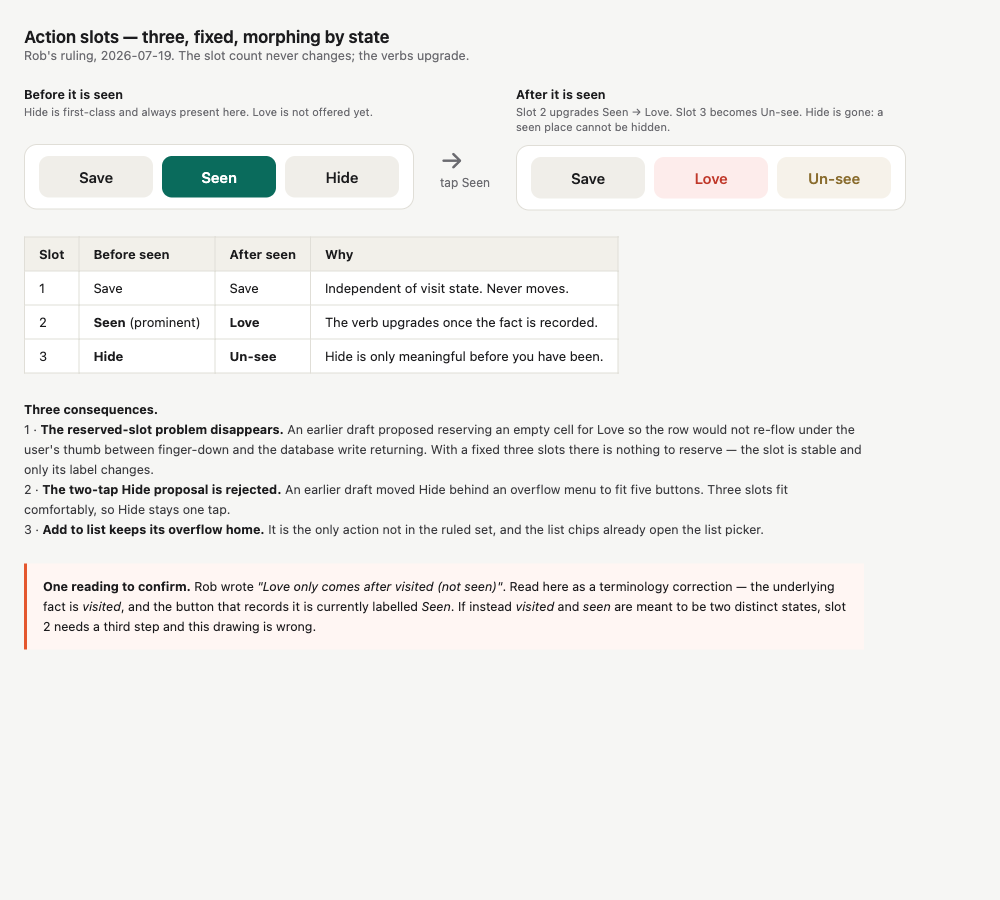
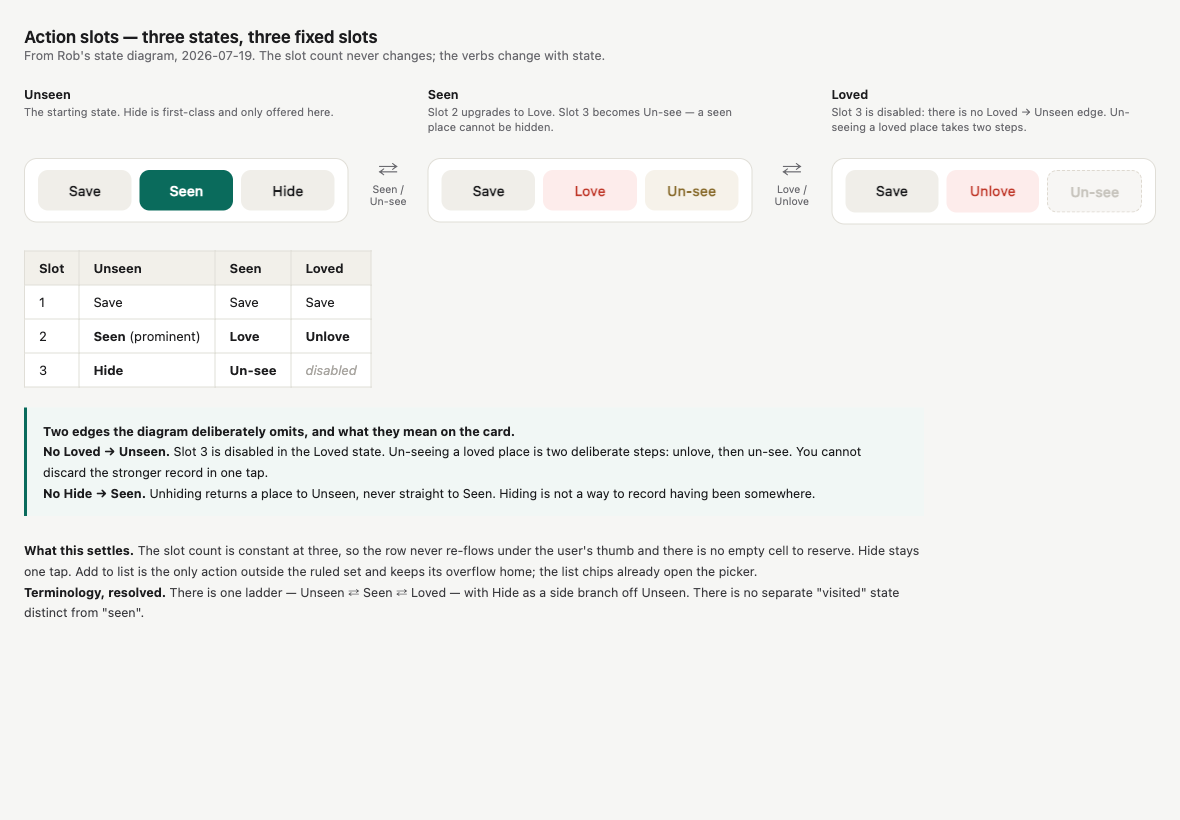
docs: WP-CARD-LAYOUT — Rob's state machine as the ruled model
Quotes the stateDiagram verbatim and renders all three states.

The load-bearing part is what the diagram omits: no Loved->Unseen, so
slot 3 is disabled in Loved and un-seeing a loved place takes two steps;
and no Hide->Seen, so unhiding returns to Unseen.

Resolves the visited-vs-seen terminology question: one ladder, Hide as a
side branch off Unseen.

diff --git a/docs/design/card/wf-actions.html b/docs/design/card/wf-actions.html
@@ -6,68 +6,77 @@
   body{ background:#f6f6f4; font-family:-apple-system,BlinkMacSystemFont,"SF Pro Text","Helvetica Neue",Arial,sans-serif; color:var(--ink); padding:26px 24px 30px; }
   h1{ font-size:17px; font-weight:650; margin-bottom:2px;}
   .sub{ font-size:12.5px; color:var(--dim); margin-bottom:24px;}
-  .row{ display:flex; gap:26px; align-items:flex-start; flex-wrap:wrap;}
-  .col{ width:390px;}
+  .row{ display:flex; gap:14px; align-items:flex-start;}
+  .col{ width:330px;}
   .cap{ font-size:12.5px; font-weight:650; margin-bottom:3px;}
-  .capsub{ font-size:11px; color:var(--dim); margin-bottom:10px; line-height:1.4; min-height:30px;}
-  .bar{ border:1px solid #e0ded7; border-radius:13px; background:#fff; padding:11px 14px; display:flex; gap:9px;}
-  .btn{ flex:1; text-align:center; font-size:15px; font-weight:560; padding:12px 0; border-radius:10px; background:#f0eee9;}
+  .capsub{ font-size:11px; color:var(--dim); margin-bottom:10px; line-height:1.4; min-height:44px;}
+  .bar{ border:1px solid #e0ded7; border-radius:13px; background:#fff; padding:11px 13px; display:flex; gap:8px;}
+  .btn{ flex:1; text-align:center; font-size:14px; font-weight:560; padding:12px 0; border-radius:10px; background:#f0eee9;}
   .btn.prom{ background:var(--accent); color:#fff;}
   .btn.love{ background:#fdeceb; color:#c0392b;}
   .btn.warn{ background:#f6f2ea; color:#8a6d2f;}
-  .arrowrow{ display:flex; align-items:center; gap:18px; margin:22px 0 10px;}
-  .arrow{ font-size:26px; color:var(--dim);}
-  .lab{ font-size:12px; color:var(--dim);}
-  .note{ margin-top:26px; font-size:12.5px; line-height:1.6; color:#3a3a3e; max-width:840px;}
+  .btn.off{ background:#f7f6f4; color:#c8c5be; border:1px dashed #ded9d0;}
+  .arrow{ align-self:center; padding-top:52px; text-align:center; width:52px;}
+  .ar{ font-size:22px; color:var(--dim); line-height:1.1;}
+  .lab{ font-size:10.5px; color:var(--dim); margin-top:2px;}
+  table{ margin-top:26px; border-collapse:collapse; font-size:13px;}
+  th,td{ border:1px solid #e0ded7; padding:9px 14px; text-align:left; background:#fff;}
+  th{ background:#f2f0ea; font-weight:650;}
+  td.dis{ color:#a8a5a0; font-style:italic;}
+  .note{ margin-top:24px; font-size:12.5px; line-height:1.65; color:#3a3a3e; max-width:900px;}
   .note b{ color:var(--ink);}
-  .slotmap{ margin-top:26px; border-collapse:collapse; font-size:13px;}
-  .slotmap th,.slotmap td{ border:1px solid #e0ded7; padding:9px 14px; text-align:left; background:#fff;}
-  .slotmap th{ background:#f2f0ea; font-weight:650;}
-  .q{ margin-top:24px; padding:13px 16px; border-left:3px solid var(--pin); background:#fff6f3; font-size:12.5px; line-height:1.6; max-width:840px;}
+  .edge{ margin-top:20px; padding:13px 16px; border-left:3px solid var(--accent); background:#f1f7f5; font-size:12.5px; line-height:1.65; max-width:900px;}
 </style></head><body>
 
-<h1>Action slots — three, fixed, morphing by state</h1>
-<div class="sub">Rob's ruling, 2026-07-19. The slot count never changes; the verbs upgrade.</div>
+<h1>Action slots — three states, three fixed slots</h1>
+<div class="sub">From Rob's state diagram, 2026-07-19. The slot count never changes; the verbs change with state.</div>
 
 <div class="row">
   <div class="col">
-    <div class="cap">Before it is seen</div>
-    <div class="capsub">Hide is first-class and always present here. Love is not offered yet.</div>
+    <div class="cap">Unseen</div>
+    <div class="capsub">The starting state. Hide is first-class and only offered here.</div>
     <div class="bar">
       <div class="btn">Save</div><div class="btn prom">Seen</div><div class="btn">Hide</div>
     </div>
   </div>
 
-  <div style="align-self:center; padding-top:38px;">
-    <div class="arrow">→</div>
-    <div class="lab">tap Seen</div>
-  </div>
+  <div class="arrow"><div class="ar">⇄</div><div class="lab">Seen /<br>Un-see</div></div>
 
   <div class="col">
-    <div class="cap">After it is seen</div>
-    <div class="capsub">Slot 2 upgrades Seen → Love. Slot 3 becomes Un-see. Hide is gone: a seen place cannot be hidden.</div>
+    <div class="cap">Seen</div>
+    <div class="capsub">Slot 2 upgrades to Love. Slot 3 becomes Un-see — a seen place cannot be hidden.</div>
     <div class="bar">
       <div class="btn">Save</div><div class="btn love">Love</div><div class="btn warn">Un-see</div>
     </div>
   </div>
+
+  <div class="arrow"><div class="ar">⇄</div><div class="lab">Love /<br>Unlove</div></div>
+
+  <div class="col">
+    <div class="cap">Loved</div>
+    <div class="capsub">Slot 3 is disabled: there is no Loved → Unseen edge. Un-seeing a loved place takes two steps.</div>
+    <div class="bar">
+      <div class="btn">Save</div><div class="btn love">Unlove</div><div class="btn off">Un-see</div>
+    </div>
+  </div>
 </div>
 
-<table class="slotmap">
-  <tr><th>Slot</th><th>Before seen</th><th>After seen</th><th>Why</th></tr>
-  <tr><td>1</td><td>Save</td><td>Save</td><td>Independent of visit state. Never moves.</td></tr>
-  <tr><td>2</td><td><b>Seen</b> (prominent)</td><td><b>Love</b></td><td>The verb upgrades once the fact is recorded.</td></tr>
-  <tr><td>3</td><td><b>Hide</b></td><td><b>Un-see</b></td><td>Hide is only meaningful before you have been.</td></tr>
+<table>
+  <tr><th>Slot</th><th>Unseen</th><th>Seen</th><th>Loved</th></tr>
+  <tr><td>1</td><td>Save</td><td>Save</td><td>Save</td></tr>
+  <tr><td>2</td><td><b>Seen</b> (prominent)</td><td><b>Love</b></td><td><b>Unlove</b></td></tr>
+  <tr><td>3</td><td><b>Hide</b></td><td><b>Un-see</b></td><td class="dis">disabled</td></tr>
 </table>
 
-<div class="note">
-<b>Three consequences.</b><br>
-1 · <b>The reserved-slot problem disappears.</b> An earlier draft proposed reserving an empty cell for Love so the row would not re-flow under the user's thumb between finger-down and the database write returning. With a fixed three slots there is nothing to reserve — the slot is stable and only its label changes.<br>
-2 · <b>The two-tap Hide proposal is rejected.</b> An earlier draft moved Hide behind an overflow menu to fit five buttons. Three slots fit comfortably, so Hide stays one tap.<br>
-3 · <b>Add to list keeps its overflow home.</b> It is the only action not in the ruled set, and the list chips already open the list picker.
+<div class="edge">
+<b>Two edges the diagram deliberately omits, and what they mean on the card.</b><br>
+<b>No Loved → Unseen.</b> Slot 3 is disabled in the Loved state. Un-seeing a loved place is two deliberate steps: unlove, then un-see. You cannot discard the stronger record in one tap.<br>
+<b>No Hide → Seen.</b> Unhiding returns a place to Unseen, never straight to Seen. Hiding is not a way to record having been somewhere.
 </div>
 
-<div class="q">
-<b>One reading to confirm.</b> Rob wrote <i>"Love only comes after visited (not seen)"</i>. Read here as a terminology correction — the underlying fact is <i>visited</i>, and the button that records it is currently labelled <i>Seen</i>. If instead <i>visited</i> and <i>seen</i> are meant to be two distinct states, slot 2 needs a third step and this drawing is wrong.
+<div class="note">
+<b>What this settles.</b> The slot count is constant at three, so the row never re-flows under the user's thumb and there is no empty cell to reserve. Hide stays one tap. Add to list is the only action outside the ruled set and keeps its overflow home; the list chips already open the picker.<br>
+<b>Terminology, resolved.</b> There is one ladder — Unseen ⇄ Seen ⇄ Loved — with Hide as a side branch off Unseen. There is no separate "visited" state distinct from "seen".
 </div>
 
 </body></html>

diff --git a/docs/superpowers/plans/2026-07-19-wp-card-layout.md b/docs/superpowers/plans/2026-07-19-wp-card-layout.md
@@ -53,31 +53,51 @@ Sources are committed beside the images (`docs/design/card/wf-default.html`, `wf
 
 ## 4. The actions — ruled
 
-Rob, 2026-07-19, verbatim:
+Rob, 2026-07-19:
 
 > "where's hide? Hide is a first class action. Love only comes after visited (not seen). So - Save, Seen (change to loved on seen) Hide."
 
 > "Also on seen, change hide to unsee or something - you can't hide a seen item."
 
+And the state machine, authored by Rob, verbatim:
+
+```mermaid
+stateDiagram
+[*] --> Unseen
+Unseen --> Seen
+Unseen --> Hide
+Seen --> Unseen
+Seen --> Loved
+Loved --> Seen
+Hide --> Unseen
+```
+
 ![Action slots](../../design/card/card-actions.png)
 
-**Three slots. The count never changes; the verbs upgrade.**
+**Three fixed slots across three states. The count never changes; the verbs do.**
 
-| Slot | Before seen | After seen | Why |
+| Slot | Unseen | Seen | Loved |
 |---|---|---|---|
-| 1 | Save | Save | Independent of visit state. Never moves. |
-| 2 | **Seen** (prominent) | **Love** | The verb upgrades once the fact is recorded. |
-| 3 | **Hide** | **Un-see** | Hide is only meaningful before you have been. |
+| 1 | Save | Save | Save |
+| 2 | **Seen** (prominent) | **Love** | **Unlove** |
+| 3 | **Hide** | **Un-see** | *disabled* |
 
-This settles three open items from the earlier drafts:
+### The two edges the diagram omits
 
-- **Hide is first-class.** The proposal to move it behind an overflow — and with it the "Hide becomes two taps" ratification item — is rejected. Three slots fit comfortably.
-- **The reserved-slot problem dissolves.** An earlier draft proposed reserving an empty cell for Love so the row would not re-flow under the thumb between finger-down and the write returning. With a fixed three slots there is nothing to reserve: the slot is stable and only its label changes.
-- **Add to list keeps its overflow home.** It is the only action outside the ruled set, and the list chips already open the picker.
+These are the load-bearing part, and they are omissions rather than statements — easy to miss and easy to violate by accident.
 
-**One reading to confirm rather than assume.** "Love only comes after visited (not seen)" is read here as a terminology correction — the underlying fact is *visited*, and the button that records it is currently labelled *Seen*. If instead *visited* and *seen* are meant as two distinct states, slot 2 needs a third step and the drawing above is wrong.
+**There is no `Loved --> Unseen`.** So slot 3 is disabled in the Loved state. Un-seeing a loved place takes two deliberate steps: unlove, then un-see. A single tap cannot discard the stronger record.
 
-**Data-layer note.** "You can't hide a seen item" is a rule about what the card offers, not a migration. Existing hidden-and-visited rows are legacy composition in the fade matrix and are unchanged by this.
+**There is no `Hide --> Seen`.** Unhiding returns a place to Unseen, never straight to Seen. Hiding is not a route to recording that you have been somewhere.
+
+### What this settles
+
+- **Terminology.** One ladder — Unseen ⇄ Seen ⇄ Loved — with Hide as a side branch off Unseen. There is no separate *visited* state distinct from *seen*. The question raised in the previous revision is answered.
+- **Hide is first-class.** The proposal to move it behind an overflow, and the "Hide becomes two taps" ratification item, are withdrawn.
+- **The reserved-slot problem dissolves.** An earlier draft reserved an empty cell so the row would not re-flow under the thumb between finger-down and the write returning. With a constant three slots there is nothing to reserve.
+- **Add to list** is the only action outside the ruled set and keeps its overflow home; the list chips already open the picker.
+
+**Data-layer note.** "You can't hide a seen item" governs what the card offers, not a migration. Existing hidden-and-visited rows are legacy composition in the fade matrix and are unchanged.
 
 ## 5. What the pictures show
 
@@ -128,7 +148,8 @@ Carried from the research pass. These do not depend on which option wins.
 Unchanged from the analysis pass, and it only bites if option A wins.
 
 - Pinning inverts `chips < actions < attribution` in `testPlaceCardOverhaulRendersHierarchyAndHideAction`. That is a change to a hierarchy Rob signed off and needs saying, not absorbing.
-- The Hide-behind-overflow change is withdrawn (§4), so `hideButton.exists` / `.tap()` are unaffected. The test will need a post-seen case for the Un-see label.
+- The Hide-behind-overflow change is withdrawn (§4), so `hideButton.exists` / `.tap()` are unaffected.
+- New cases owed by the state machine: slot 2 reads Seen / Love / Unlove across the three states; slot 3 reads Hide / Un-see / disabled. The disabled case is the one worth teeth — a test that Un-see cannot be invoked from Loved, which goes red if someone "helpfully" adds the missing `Loved --> Unseen` edge.
 - The order test does not include `place-card.add-to-list` at all. That is how it drifted in unnoticed after #231, and it should be added regardless of which option wins.
 
 The six content elements keep their order in every option. Only the actions move.
